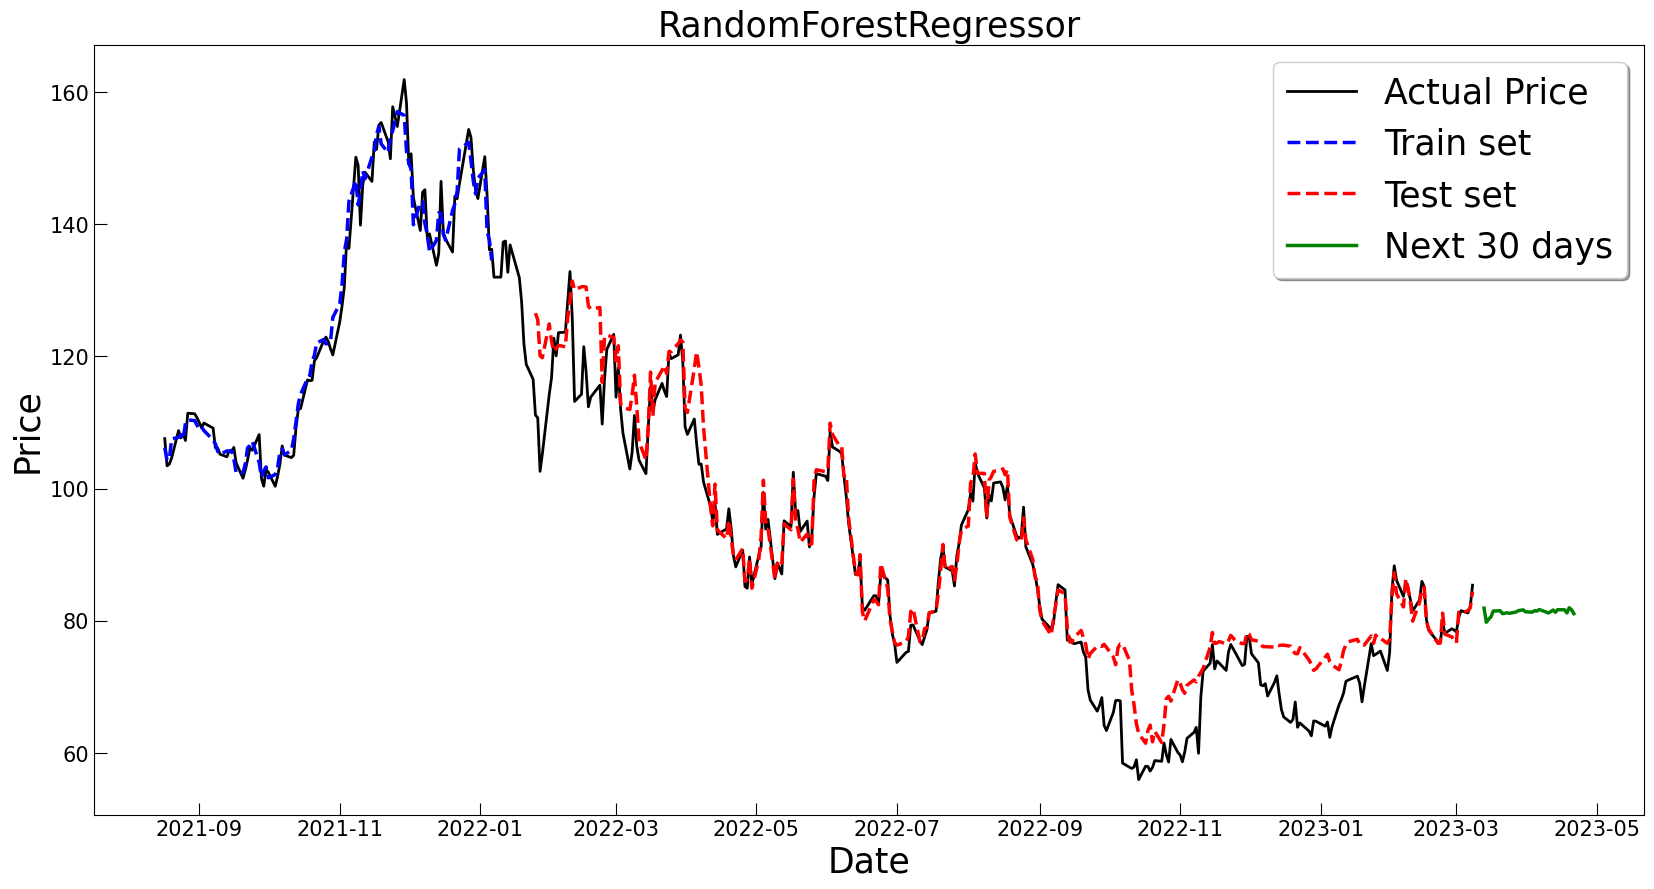
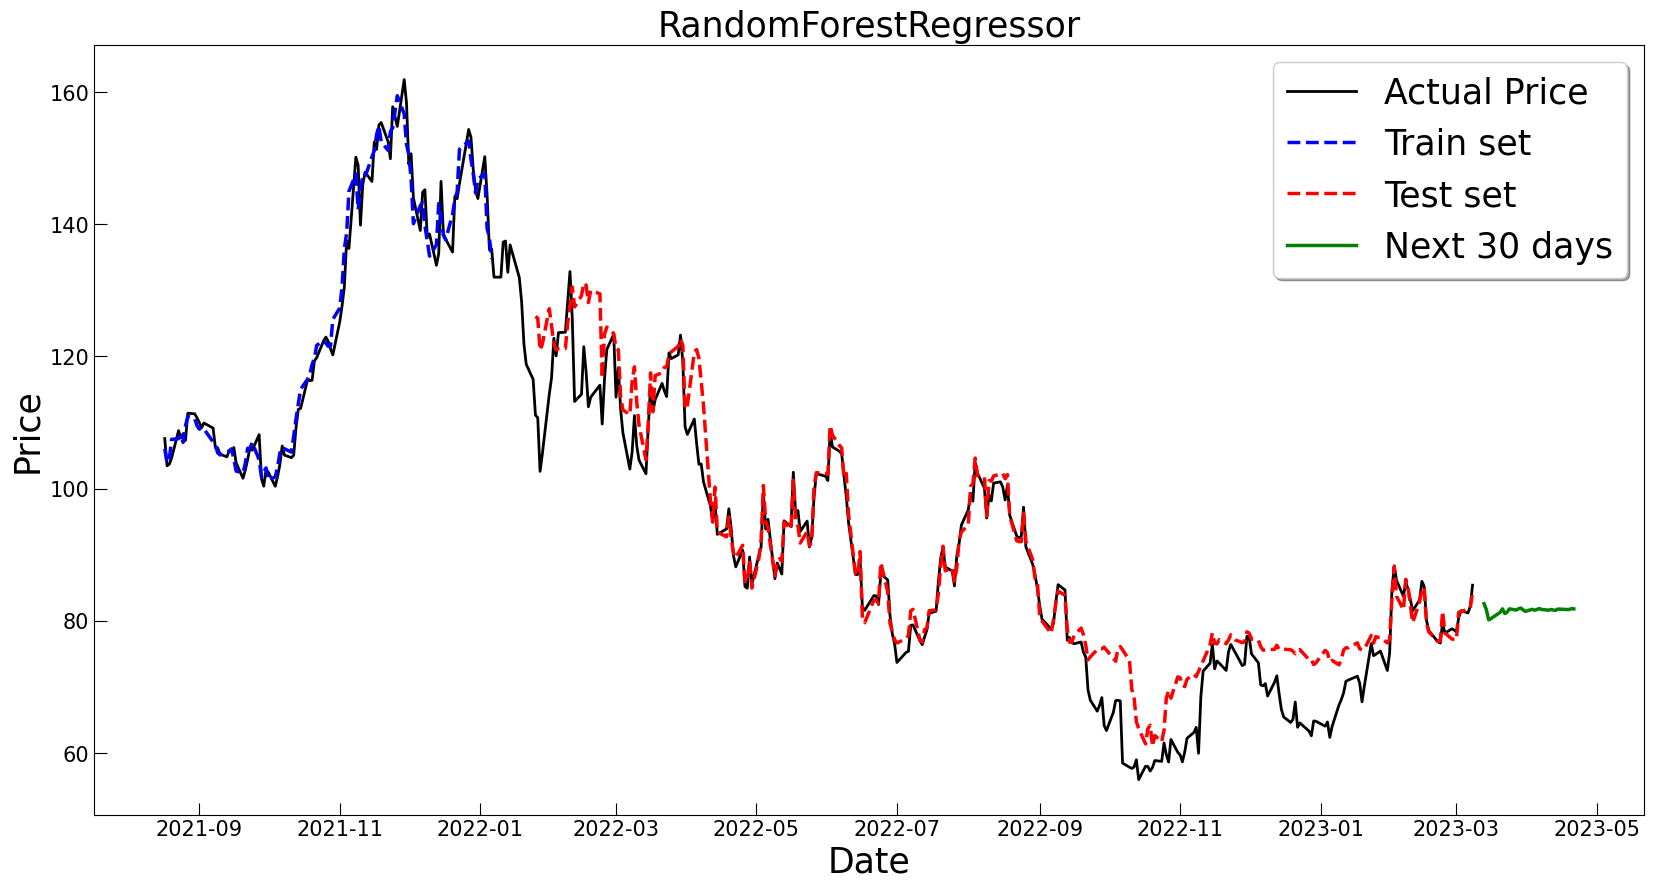
Cleaning code

diff --git a/regression.py b/regression.py
@@ -1,21 +1,13 @@
 import numpy as np
 import pandas as pd
-from sklearn.model_selection import train_test_split
 from sklearn.preprocessing import MinMaxScaler
-
 from sklearn.linear_model import LinearRegression
 from sklearn.svm import SVR
 from sklearn.ensemble import RandomForestRegressor
-from sklearn.neighbors import KNeighborsRegressor
-
 from sklearn.metrics import explained_variance_score,r2_score
-
 from datetime import datetime, timedelta
-from xgboost import XGBRegressor
 import yfinance as yf
 import matplotlib.pyplot as plt
-import matplotlib.dates as dates
-import matplotlib.ticker as ticker
 
 
 class regression_model:
@@ -198,10 +190,11 @@ class regression_model:
 
 
 
-def plot_result():
+def plot_result(train_df, test_df, pred_df):
 
     fig, ax = plt.subplots(figsize=(20, 10))
-
+    
+    #Only plot the last 100 datapoints
     plot_train_df = train_df[-100:].reset_index(drop=True)
     new_index = range(len(plot_train_df), len(plot_train_df)+len(test_df))
     
@@ -210,13 +203,11 @@ def plot_result():
 
     mask = (df['Date'] >= plot_train_df['Date'].iloc[0]) & (df['Date'] <= test_df['Date'].iloc[-1])
     # filter the dataframe using the boolean mask
-    filtered_df = df.loc[mask].reset_index(drop=True)
-
-    #print(plot_train_df)
-    #print(test_df)
+    actual_df = df.loc[mask].reset_index(drop=True)
 
 
-    ax.plot(filtered_df['Date'],filtered_df['Close'], linewidth=2, color='black',label='Actual Price')
+
+    ax.plot(actual_df['Date'],actual_df['Close'], linewidth=2, color='black',label='Actual Price')
     ax.plot(plot_train_df['Date'],plot_train_df['train'], linewidth=2.5,linestyle="dashed", color='blue',label='Train set')
     ax.plot(test_df['Date'],test_df['test'], linewidth=2.5,linestyle="dashed",color='red',label='Test set')
 
@@ -320,7 +311,7 @@ def plot_metric(train_var_list, train_r2_list, test_var_list, test_r2_list):
         bbox_to_anchor=(0.15, -0.40),shadow=True,fontsize=20)
 
 
-    plt.savefig("plots/metric_regression.png",bbox_inches='tight')
+    plt.savefig("plots/metric_score.png",bbox_inches='tight')
 
 
 
@@ -354,7 +345,7 @@ if __name__ == '__main__':
         test_var_list.append(metric['test_variance_score'].iloc[0])
         test_r2_list.append(metric['test_r2_score'].iloc[0])
 
-        #plot_result()
+        plot_result(train_df, test_df, pred_df)
         print(metric)
         print(model_name + " finished")
 
